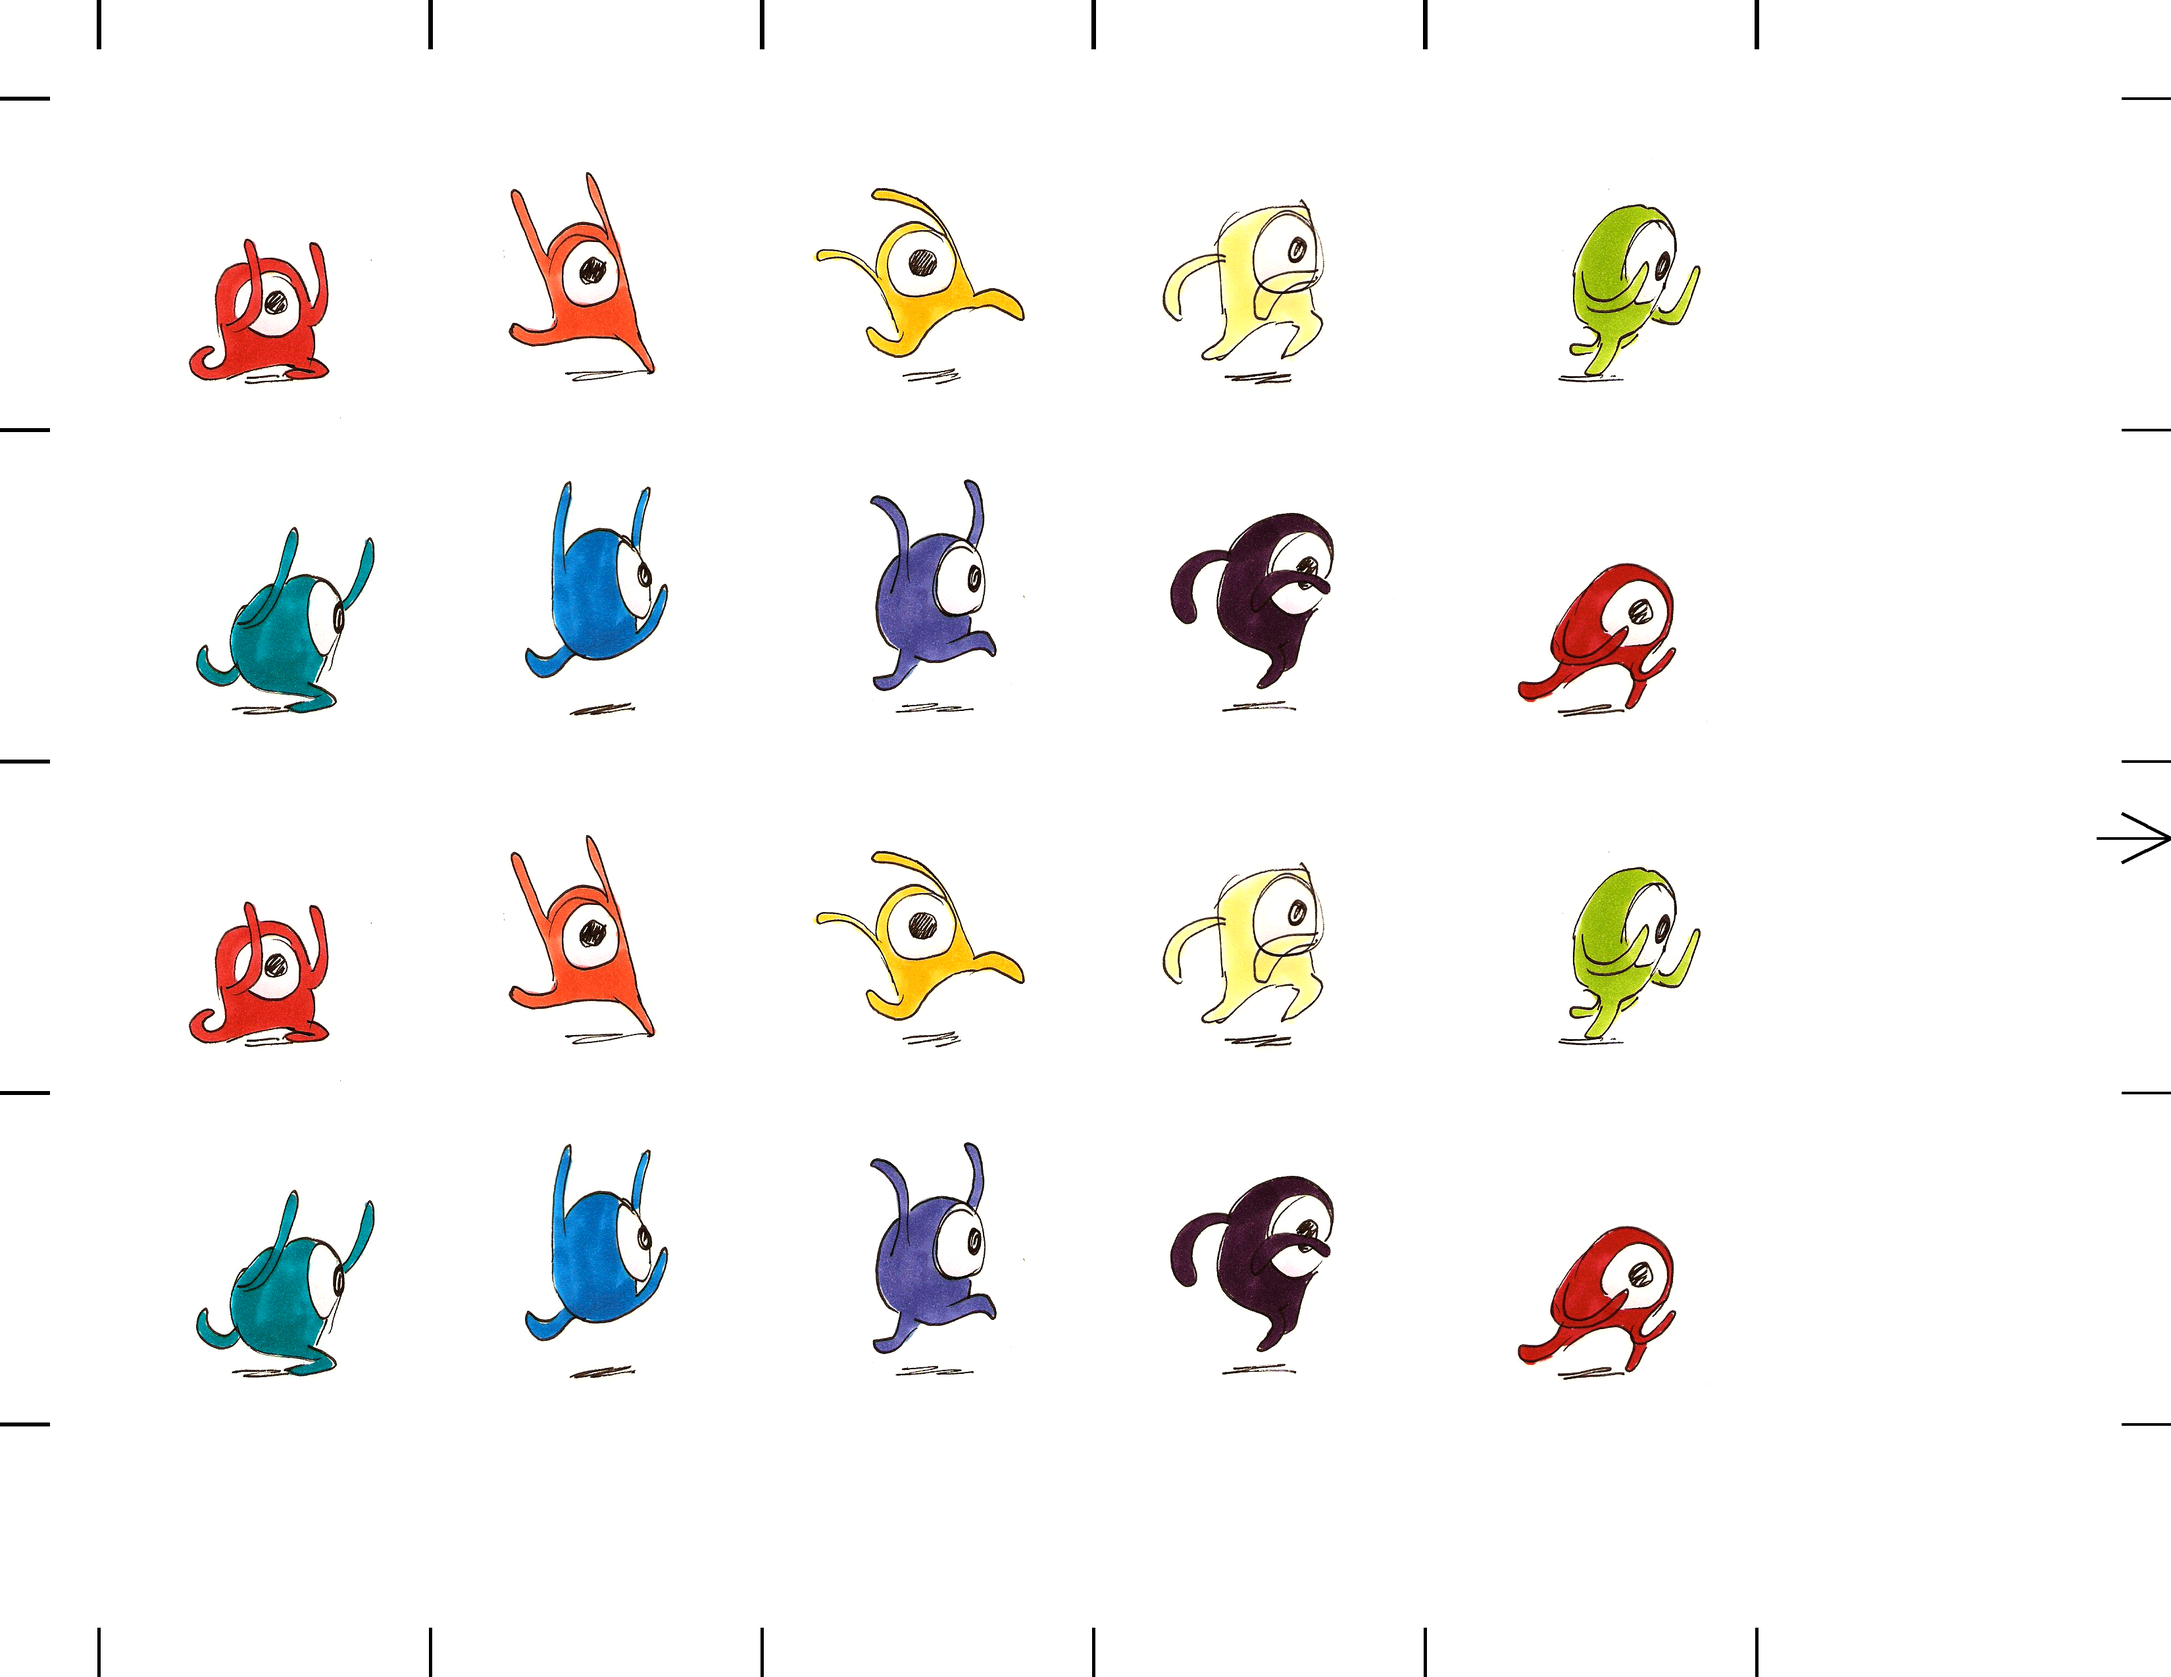
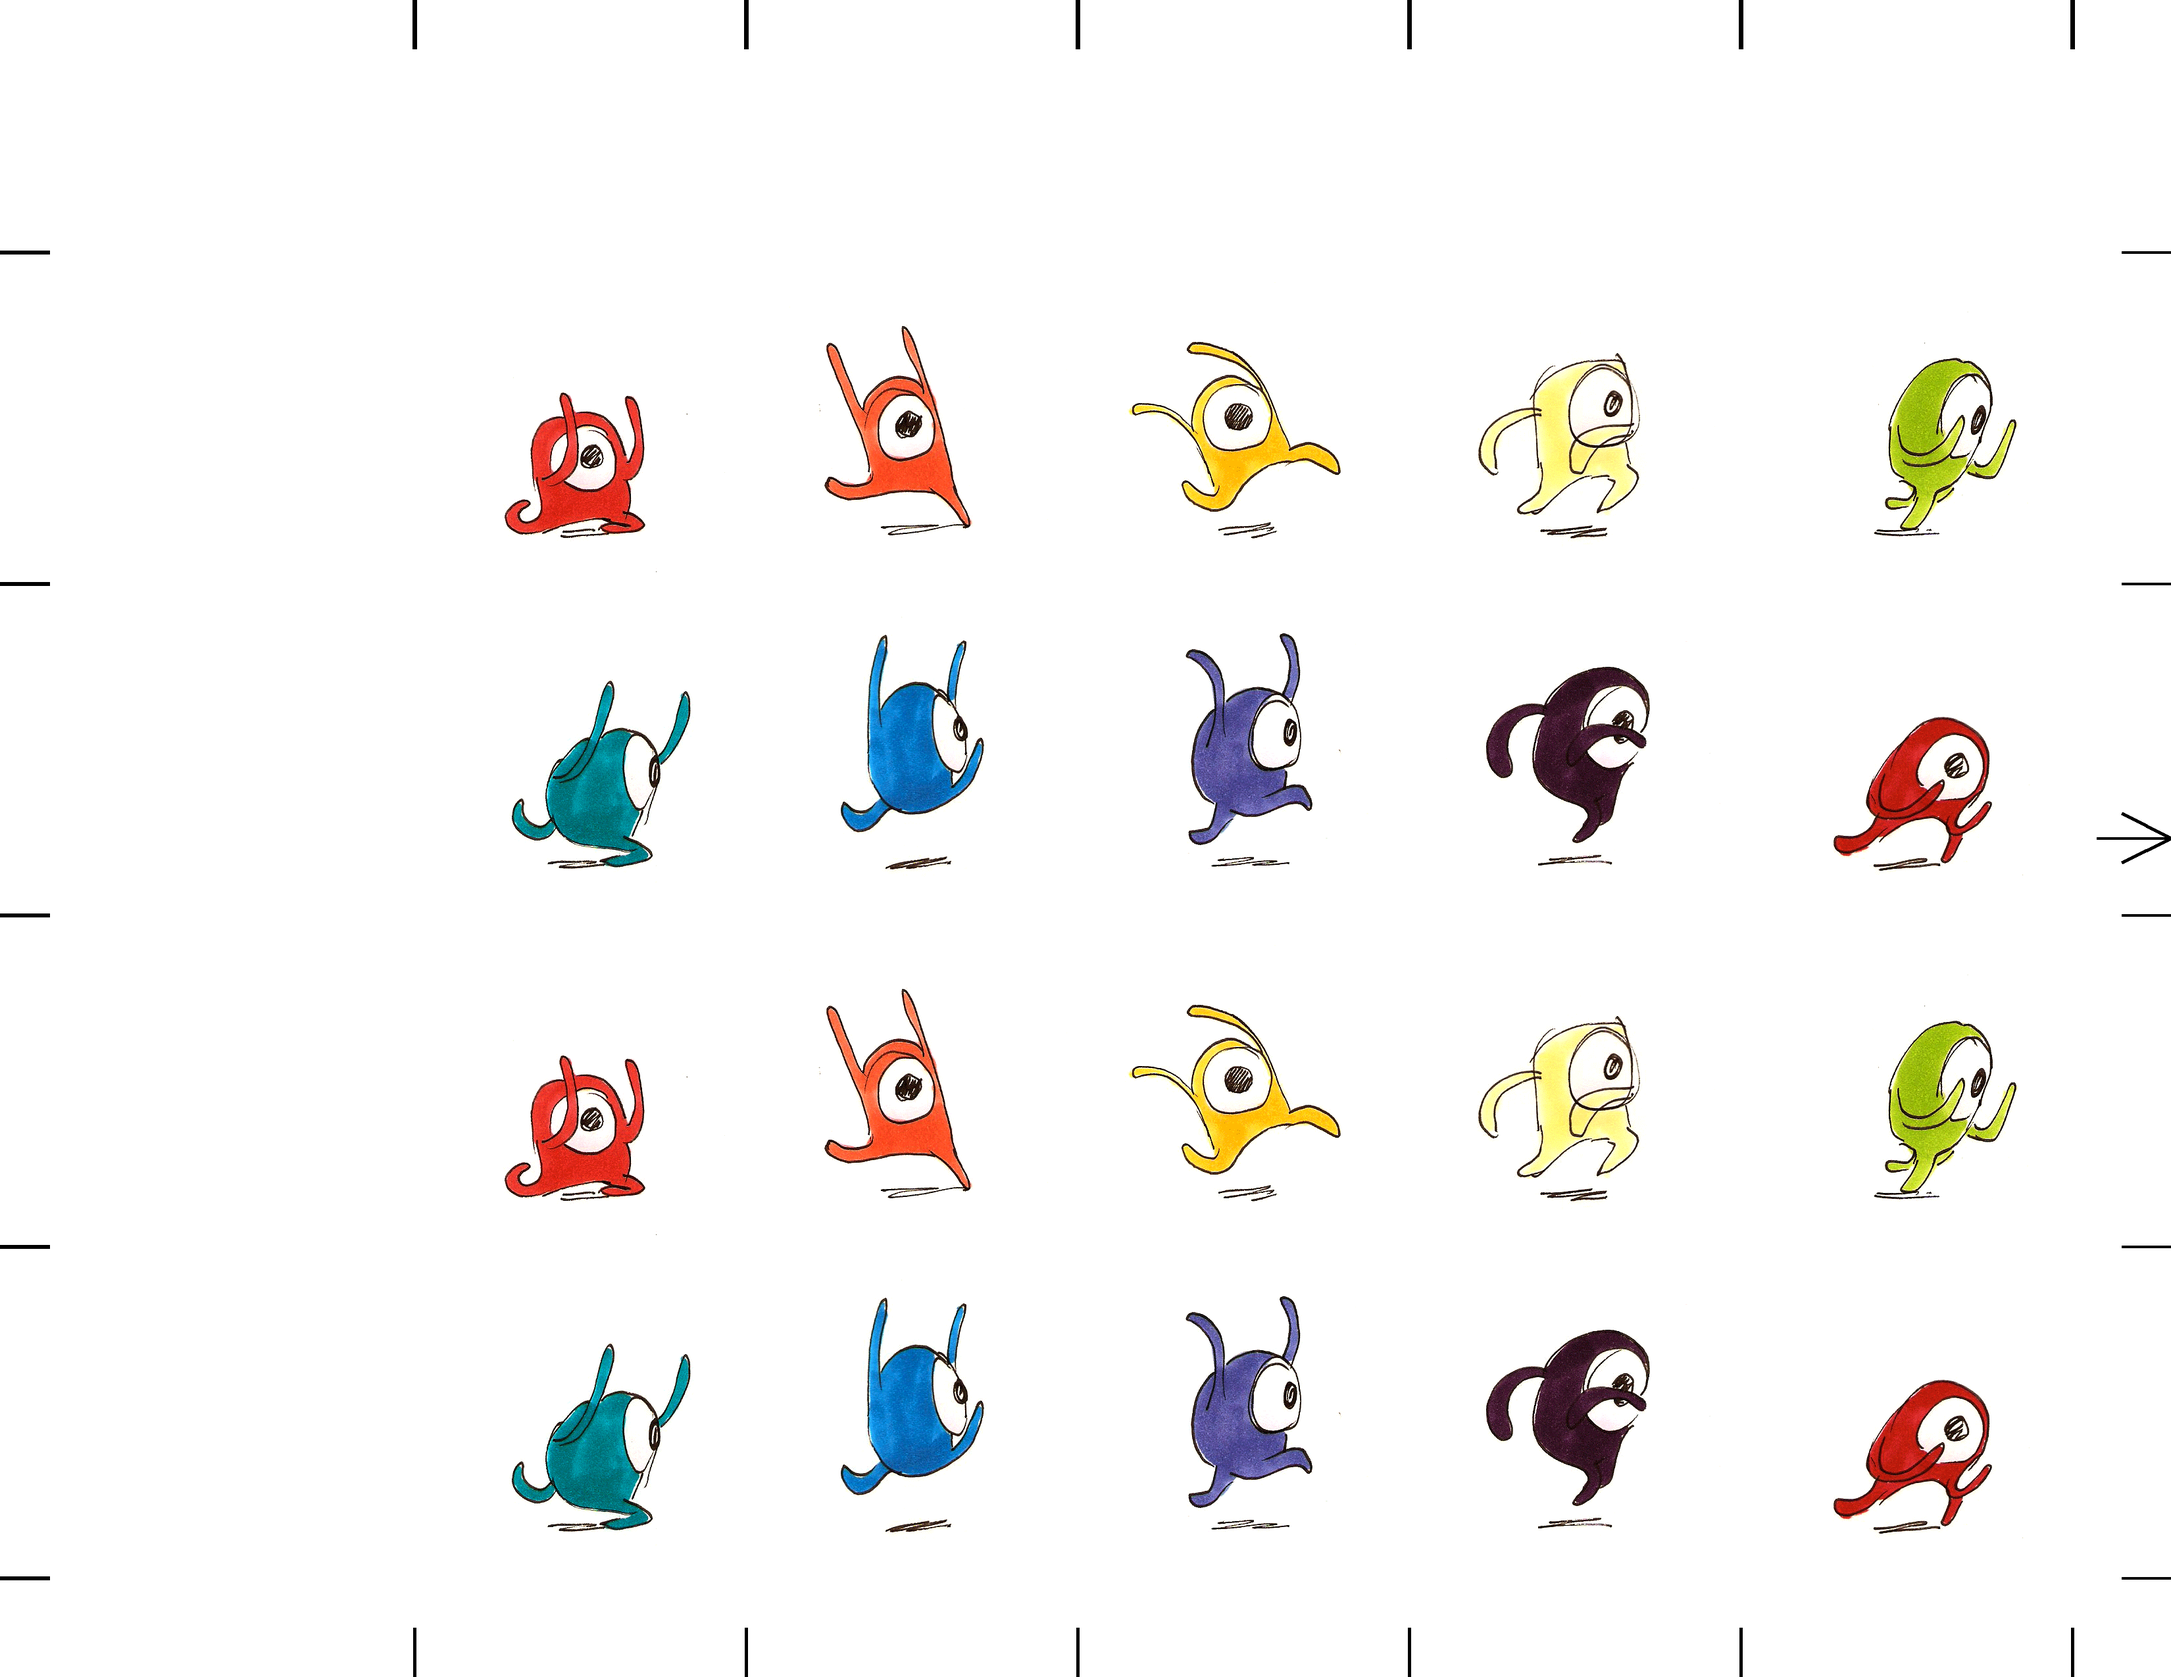
Added configuration for output directory, page size, margin and DPI. Updated sample images.

diff --git a/src/Flipbook.py b/src/Flipbook.py
@@ -1,70 +1,58 @@
 from math import ceil
 from PIL import Image, ImageDraw
 
-# in pixels
-DEFAULT_DPI = 300
-
-# in inches
-PAGE_HEIGHT = 8.5
-PAGE_WIDTH = 11
-MARGIN_SIZE = 0.5
-
 WHITE = (255, 255, 255, 255)
 BLACK = (0, 0, 0, 255)
 
 class Flipbook(object):
     def __init__(self, config):
-        self.gif1 = config.gif1
-        self.gif2 = config.gif2
-        self.rows = config.rows
-        self.cols = config.cols
-        self.repeat = config.repeat
+        self._config = config
         self.pages1 = []
         self.pages2 = []
 
     def create(self):
-        gif1 = Image.open(self.gif1)
+        gif1 = Image.open(self._config.gif1)
         gif1_frames = [im.copy() for im in ImageSequence(gif1)]
 
-        if self.gif2:
-            gif2 = Image.open(self.gif2)
+        if self._config.gif2:
+            gif2 = Image.open(self._config.gif2)
             assert gif1.size == gif2.size, \
                    "Both gifs must be the same size (for now)"
             gif2_frames = [im.copy() for im in ImageSequence(gif2)]
 
             # Truncate to length of shortest gif and loop if requested
             min_length = min(len(gif1_frames), len(gif2_frames))
-            gif2_frames = gif2_frames[:min_length] * self.repeat
+            gif2_frames = gif2_frames[:min_length] * self._config.repeat
         else:
             min_length = len(gif1_frames)
 
-        gif1_frames = gif1_frames[:min_length] * self.repeat
+        gif1_frames = gif1_frames[:min_length] * self._config.repeat
         self.add_gif(gif1_frames, gif1.size, self.pages1)
 
-        if self.gif2:
+        if self._config.gif2:
             self.add_gif(gif2_frames, gif2.size, self.pages2, backwards=True)
 
     def add_gif(self, gif, size, pages, backwards=False):
         if backwards:
             gif.reverse()
 
-        page_height = int(DEFAULT_DPI * PAGE_HEIGHT)
-        page_width = int(DEFAULT_DPI * PAGE_WIDTH)
-        margin_size = int (DEFAULT_DPI * MARGIN_SIZE)
+        page_height = int(self._config.dpi * self._config.page_height)
+        page_width = int(self._config.dpi * self._config.page_width)
+        margin_size = int (self._config.dpi * self._config.margin)
         available_width = page_width - 2 * margin_size
         available_height = page_height - 2 * margin_size
 
         # Figure out page layout based on specified rows/cols
         # Images will be resized, but aspect ratio preserved
-        if self.rows > 0:
-            new_height = available_height // self.rows
+        if self._config.rows > 0:
+            new_height = available_height // self._config.rows
             new_width = int((size[0] / size[1]) * new_height)
-            num_rows = self.rows
+            num_rows = self._config.rows
             num_cols = available_width // new_width
-        elif self.cols > 0:
-            new_width = available_width // self.cols
+        elif self._config.cols > 0:
+            new_width = available_width // self._config.cols
             new_height = int((size[1] / size[0]) * new_width)
-            num_cols = self.cols
+            num_cols = self._config.cols
             num_rows = available_height // new_height
         else:
             # No rows or cols specified, just use original dimensions
@@ -76,7 +64,9 @@ class Flipbook(object):
 
         num_pages = ceil(len(gif) / (num_rows * num_cols))
         for page_num in range(num_pages):
-            page = FlipbookPage(num_rows, num_cols, new_width, new_height)
+            page = FlipbookPage(
+                self._config, num_rows, num_cols, new_width, new_height
+            )
             start_frame = page_num * num_rows * num_cols
             end_frame = start_frame + num_rows * num_cols
             page.create(gif[start_frame: end_frame], backwards)
@@ -89,13 +79,13 @@ class Flipbook(object):
         return (self.pages1, self.pages2)
 
 class FlipbookPage(object):
-    def __init__(self, rows, cols, frame_width, frame_height):
-        self.height = int(DEFAULT_DPI * PAGE_HEIGHT)
-        self.width = int(DEFAULT_DPI * PAGE_WIDTH)
+    def __init__(self, config, rows, cols, frame_width, frame_height):
+        self.height = int(config.dpi * config.page_height)
+        self.width = int(config.dpi * config.page_width)
         self.im = Image.new('RGBA', (self.width, self.height), color=WHITE)
         self.rows = rows
         self.cols = cols
-        self.margin_size = int(MARGIN_SIZE * DEFAULT_DPI)
+        self.margin_size = int(config.margin * config.dpi)
         self.frame_width = frame_width
         self.frame_height = frame_height
 

diff --git a/flip.py b/flip.py
@@ -1,45 +1,74 @@
 #!/usr/bin/env python3
 
 from argparse import ArgumentParser
+from os.path import join
 from src.Flipbook import Flipbook
 
 DEFAULT_ROWS = 0
 DEFAULT_COLS = 0
 DEFAULT_REPEAT = 1
+DEFAULT_DIR = '.'
+DEFAULT_PAGE_HEIGHT = 8.5
+DEFAULT_PAGE_WIDTH = 11.0
+DEFAULT_DPI = 300
+DEFAULT_MARGIN = 0.5
 
-if __name__ == "__main__":
-    parser = ArgumentParser(description="Create a flipbook from GIFs.")
+FILENAME = 'output-{}-{}.png'
+
+if __name__ == '__main__':
+    parser = ArgumentParser(description='Create a flipbook from GIFs.')
     parser.add_argument(
         'gif1', metavar='G1', type=str,  
-        help="The filename of the first GIF to use."
+        help='The filename of the first GIF to use.'
     )
     parser.add_argument(
-        'gif2', metavar='G2', type=str, nargs='?', default="",
-        help="The filename of the second GIF to use."
+        'gif2', metavar='G2', type=str, nargs='?', default='',
+        help='The filename of the second GIF to use.'
     )
     parser.add_argument(
-        '--rows', type=int, default=DEFAULT_ROWS,
-        help="The number of rows per page."
+        '-r', '--rows', type=int, default=DEFAULT_ROWS,
+        help='The number of rows per page.'
     )
     parser.add_argument(
-        '--cols', type=int, default=DEFAULT_COLS,
-        help="The number of columns per page. Ignored if rows provided."
+        '-c', '--cols', type=int, default=DEFAULT_COLS,
+        help='The number of columns per page. Ignored if rows provided.'
     )
     parser.add_argument(
         '--repeat', type=int, default=DEFAULT_REPEAT,
-        help="The number of times each animation should be repeated"
+        help='The number of times each animation should be repeated.'
+    )
+    parser.add_argument(
+        '-d', '--dir', type=str, default=DEFAULT_DIR,
+        help='The directory in which the files should be saved.'
+    )
+    parser.add_argument(
+        '--page_height', type=float, default=DEFAULT_PAGE_HEIGHT,
+        help='The height of the page in inches.'
+    )
+    parser.add_argument(
+        '--page_width', type=float, default=DEFAULT_PAGE_WIDTH,
+        help='The width of the page in inches.'
+    )
+    parser.add_argument(
+        '--dpi', type=int, default=DEFAULT_DPI,
+        help='The DPI of the produced images.'
+    )
+    parser.add_argument(
+        '--margin', type=float, default=DEFAULT_MARGIN,
+        help='The size of the page margin in inches.'
     )
 
     args = parser.parse_args()
 
     if args.rows > 0 and args.cols > 0:
-        print("Cannot specify both number of rows and number of columns"
-              "Only number of rows will be used.")
+        print('Cannot specify both number of rows and number of columns'
+              'Only number of rows will be used.')
 
     flipbook = Flipbook(args)
     flipbook.create()
     pages = flipbook.get_grouped_pages()
+    filename = join(args.dir, FILENAME)
     for i, page in enumerate(pages[0]):
-        page.save("output-a-{}.png".format(i))
+        page.save(filename.format('a', i))
     for i, page in enumerate(pages[1]):
-        page.save("output-b-{}.png".format(i))
+        page.save(filename.format('b', i))
